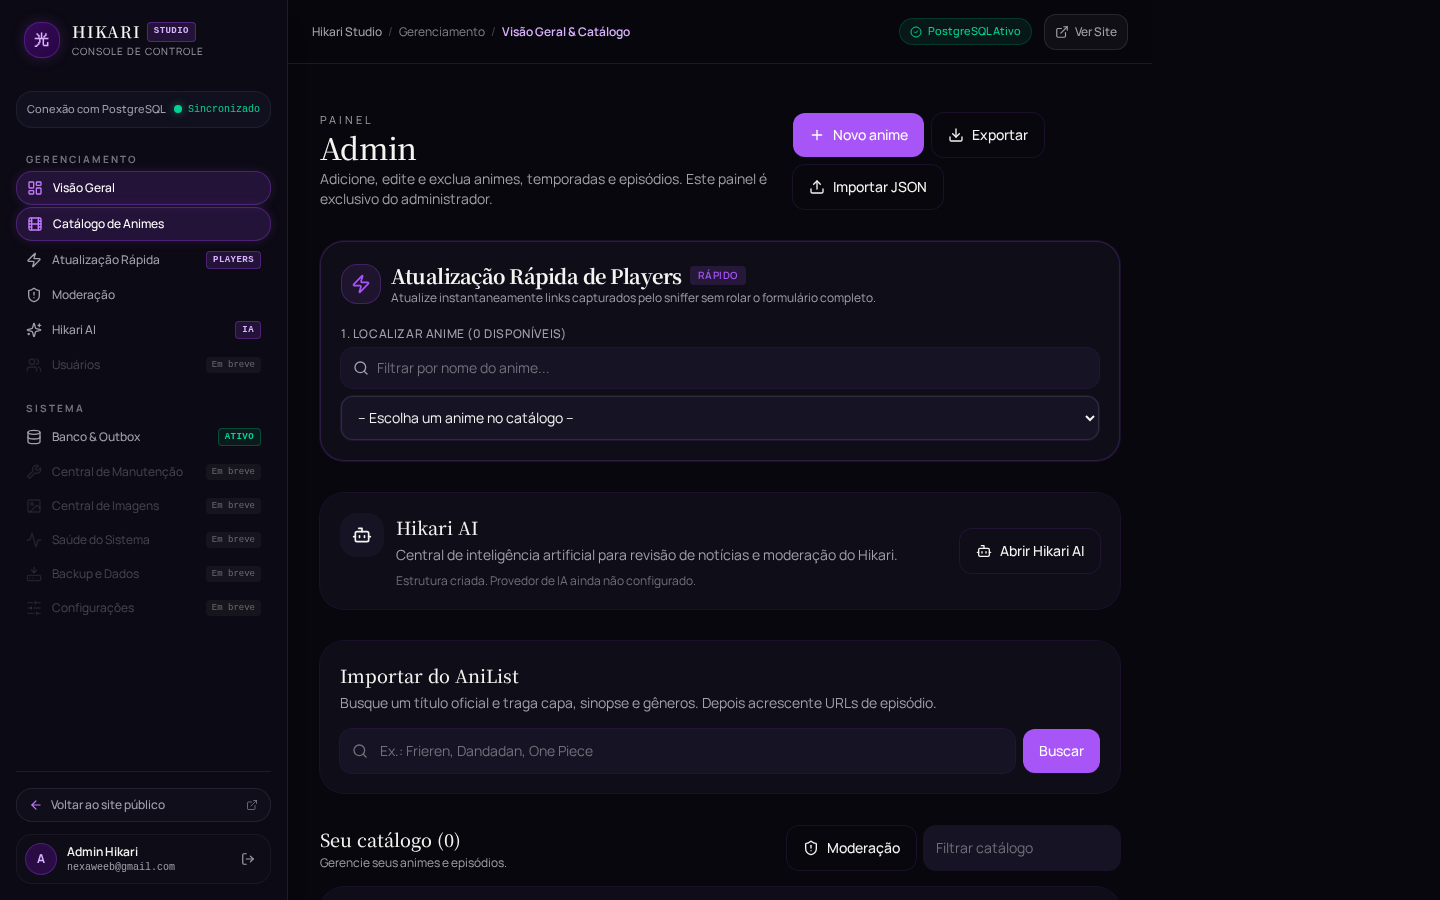
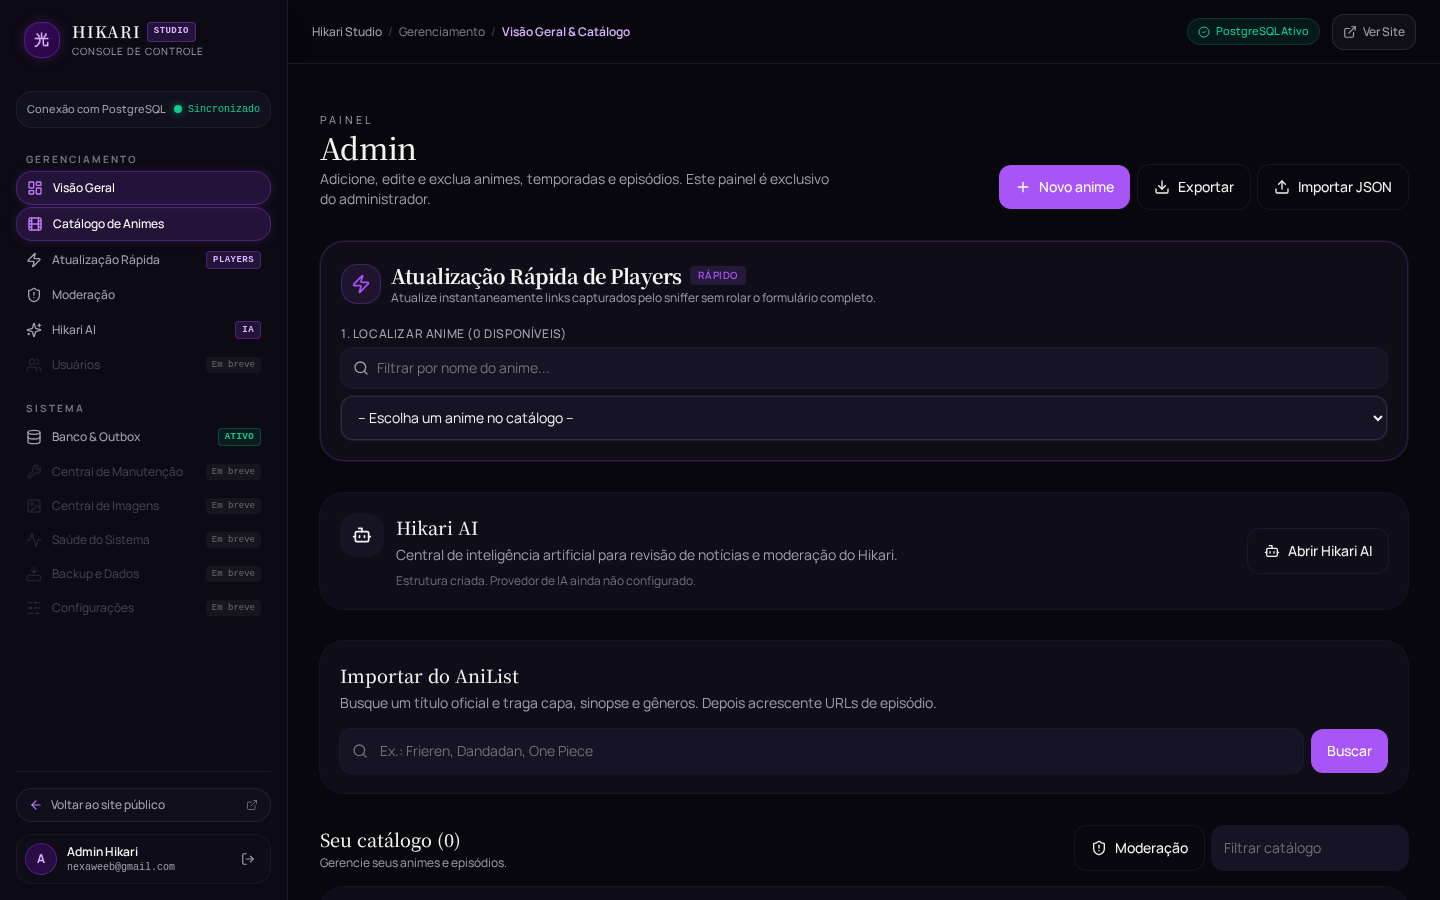
refactor: update studio layout and rearrange home sections
- Simplify studio layout sidebar width handling
- Clean up EpisodeCard image fallback logic
- Rearrange RecentEpisodesSection on the homepage
- Add SSR type registration for TanStack Router
- Improve E2E test robustness for admin authentication

diff --git a/src/components/episode-card.tsx b/src/components/episode-card.tsx
@@ -2,7 +2,6 @@ import { memo, useMemo, useState } from "react";
 import { Link } from "@tanstack/react-router";
 import { Film } from "lucide-react";
 import { cleanEpisodeDisplay, type PublishedEpisode } from "@/lib/published-episodes";
-import { getResponsiveCoverAttrs } from "@/lib/image-utils";
 import { cn } from "@/lib/utils";
 
 export const EpisodeCard = memo(function EpisodeCard({
@@ -13,14 +12,7 @@ export const EpisodeCard = memo(function EpisodeCard({
   priority?: boolean;
 }) {
   const [thumbFailed, setThumbFailed] = useState(false);
-  const [failedOptimizedFor, setFailedOptimizedFor] = useState<string | null>(null);
-  const [fallbackFailed, setFallbackFailed] = useState(false);
-
-  const fallbackImage = episode.animeBanner || episode.animeCover;
-  const fallbackAttrs = getResponsiveCoverAttrs(fallbackImage, "card-md");
-  const fallbackOptimizedFailed = Boolean(fallbackImage && failedOptimizedFor === fallbackImage);
   const hasValidThumbnail = Boolean(episode.thumbnail && !thumbFailed);
-  const showFallback = !hasValidThumbnail && Boolean(fallbackImage && !fallbackFailed);
 
   const formattedSubtitle = useMemo(() => {
     return cleanEpisodeDisplay(
@@ -95,29 +87,8 @@ export const EpisodeCard = memo(function EpisodeCard({
               onError={() => setThumbFailed(true)}
               className="size-full object-cover transition-opacity duration-200 motion-reduce:transition-none"
             />
-          ) : showFallback ? (
-            /* Imagem alternativa adequada (banner/capa oficial do anime em 16:9) */
-            <img
-              src={fallbackOptimizedFailed ? fallbackImage : fallbackAttrs.src}
-              srcSet={fallbackOptimizedFailed ? undefined : fallbackAttrs.srcSet}
-              sizes={fallbackOptimizedFailed ? undefined : fallbackAttrs.sizes}
-              alt=""
-              width={320}
-              height={180}
-              loading={priority ? "eager" : "lazy"}
-              decoding="async"
-              fetchPriority={priority ? "high" : "auto"}
-              onError={() => {
-                if (!fallbackOptimizedFailed && fallbackAttrs.fallbackSrc && fallbackImage) {
-                  setFailedOptimizedFor(fallbackImage);
-                } else {
-                  setFallbackFailed(true);
-                }
-              }}
-              className="size-full object-cover opacity-90 transition-opacity duration-200 motion-reduce:transition-none"
-            />
           ) : (
-            /* Tratamento gracioso caso nenhuma imagem esteja acessível */
+            /* Tratamento gracioso caso a miniatura do episódio não esteja acessível (nunca substitui por capa/banner) */
             <div className="relative flex size-full flex-col items-center justify-center bg-gradient-to-br from-[#17122a] via-[#0f0d19] to-[#09080e] p-2 sm:p-3 text-center">
               <div className="absolute inset-0 bg-[radial-gradient(circle_at_center,rgba(168,85,247,0.12)_0%,transparent_70%)]" />
               <div className="relative flex size-7 sm:size-9 items-center justify-center rounded-full bg-purple-950/80 border border-purple-500/30 text-purple-300 shadow-md">

diff --git a/src/routes/index.tsx b/src/routes/index.tsx
@@ -300,17 +300,7 @@ function Home() {
       {/* 1. Episódios de Hoje (prioritário na primeira visualização) */}
       <TodayEpisodesSection initialItems={data.todaySchedule ?? []} />
 
-      {/* 2. Novos Episódios (publicados pelo administrador - carregamento progressivo adiado) */}
-      {hasRecentEpisodes && (
-        <SectionReveal minHeight="380px" rootMargin="300px 0px">
-          <RecentEpisodesSection
-            serverResult={data.publicEpisodesResult}
-            initialEpisodes={recentEpisodes}
-          />
-        </SectionReveal>
-      )}
-
-      {/* 3. Em Alta (carregamento progressivo adiado) */}
+      {/* 2. Em Alta (carregamento progressivo adiado) */}
       <SectionReveal minHeight="260px" rootMargin="300px 0px">
         <AnimeRow
           title="Em Alta"
@@ -321,6 +311,16 @@ function Home() {
           priorityCount={(data.todaySchedule?.length ?? 0) === 0 ? 3 : 0}
         />
       </SectionReveal>
+
+      {/* 3. Episódios Recentes (publicados pelo administrador - carregamento progressivo adiado) */}
+      {hasRecentEpisodes && (
+        <SectionReveal minHeight="380px" rootMargin="300px 0px">
+          <RecentEpisodesSection
+            serverResult={data.publicEpisodesResult}
+            initialEpisodes={recentEpisodes}
+          />
+        </SectionReveal>
+      )}
 
       {/* 4. Animes Recém-Adicionados */}
       <SectionReveal minHeight="260px" rootMargin="300px 0px">

diff --git a/src/components/recent-episodes-section.tsx b/src/components/recent-episodes-section.tsx
@@ -24,9 +24,11 @@ function EpisodeCardSkeleton() {
 export function RecentEpisodesSection({
   serverResult,
   initialEpisodes,
+  title = "Episódios Recentes",
 }: {
   serverResult?: PublicEpisodesResult | null;
   initialEpisodes?: PublishedEpisode[];
+  title?: string;
 }) {
   const animes = useHikariStore((s) => s.animes);
   const hydrated = useHikariStore((s) => s.hydrated);
@@ -60,7 +62,7 @@ export function RecentEpisodesSection({
           {/* Título da Seção */}
           <div className="flex items-center gap-2 min-w-0">
             <h2 className="font-section text-xl sm:text-2xl md:text-3xl font-bold tracking-tight text-white drop-shadow-sm truncate">
-              Novos Episódios
+              {title}
             </h2>
             {!isLoading && displayEpisodes.length > 0 && (
               <span className="hidden sm:inline-flex shrink-0 rounded-full bg-purple-950/50 border border-purple-500/20 px-2 py-0.5 text-[10px] font-semibold text-purple-300/80">

diff --git a/src/components/admin/studio-layout.tsx b/src/components/admin/studio-layout.tsx
@@ -562,7 +562,7 @@ export function HikariStudioLayout({ children }: StudioLayoutProps) {
       {/* =========================================================
           3. ÁREA DE CONTEÚDO PRINCIPAL (COM MARGEM DA SIDEBAR)
       ========================================================== */}
-      <div className="flex flex-1 flex-col lg:pl-64 lg:w-[calc(100%-16rem)] xl:pl-72 xl:w-[calc(100%-18rem)] overflow-x-hidden min-h-screen">
+      <div className="flex flex-1 flex-col lg:pl-72 w-full overflow-x-hidden min-h-screen">
         {/* Barra Superior / Header do Studio */}
         <header className="sticky top-0 z-20 flex h-14 sm:h-16 items-center justify-between border-b border-white/[0.08] bg-[#08070d]/90 px-4 sm:px-6 backdrop-blur-md">
           {/* Lado Esquerdo: Botão Mobile + Breadcrumbs */}

diff --git a/src/routeTree.gen.ts b/src/routeTree.gen.ts
@@ -1217,3 +1217,12 @@ const rootRouteChildren: RootRouteChildren = {
 export const routeTree = rootRouteImport
   ._addFileChildren(rootRouteChildren)
   ._addFileTypes<FileRouteTypes>()
+
+import type { getRouter } from './router.tsx'
+import type { createStart } from '@tanstack/react-start'
+declare module '@tanstack/react-start' {
+  interface Register {
+    ssr: true
+    router: Awaited<ReturnType<typeof getRouter>>
+  }
+}
